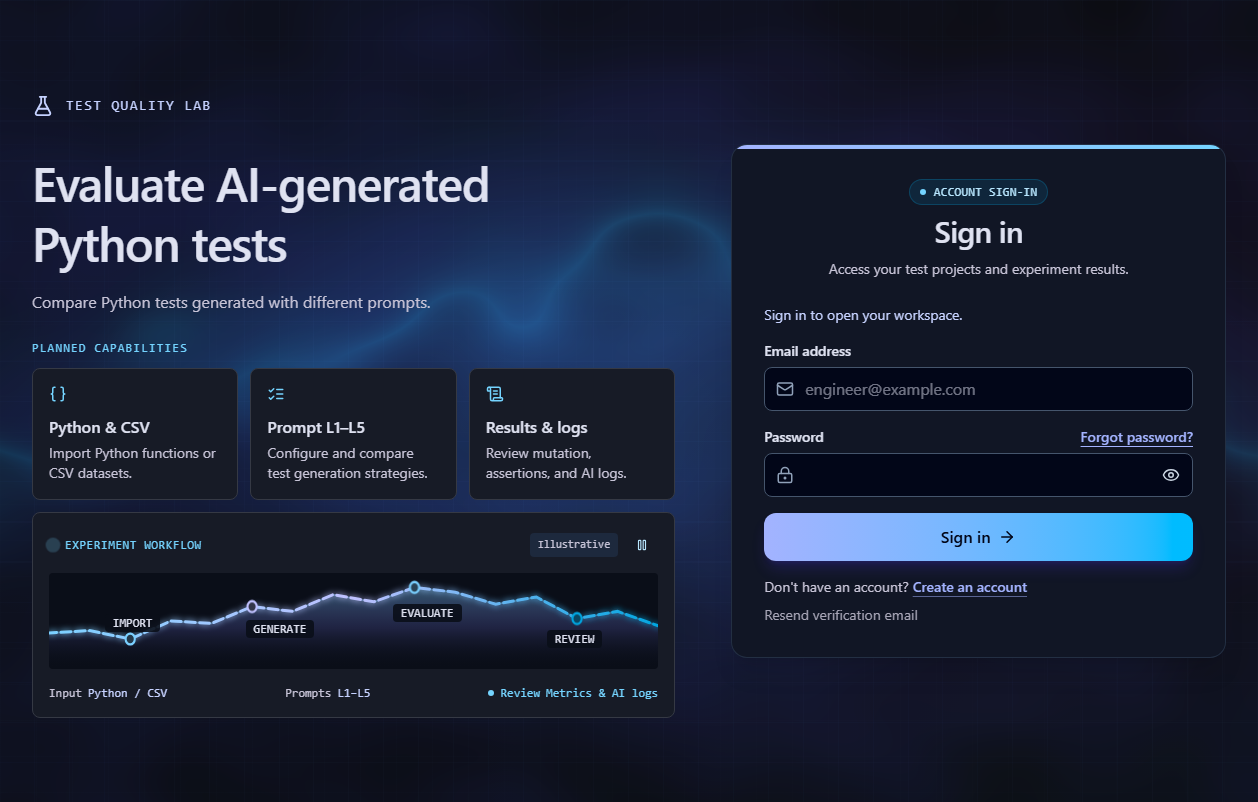
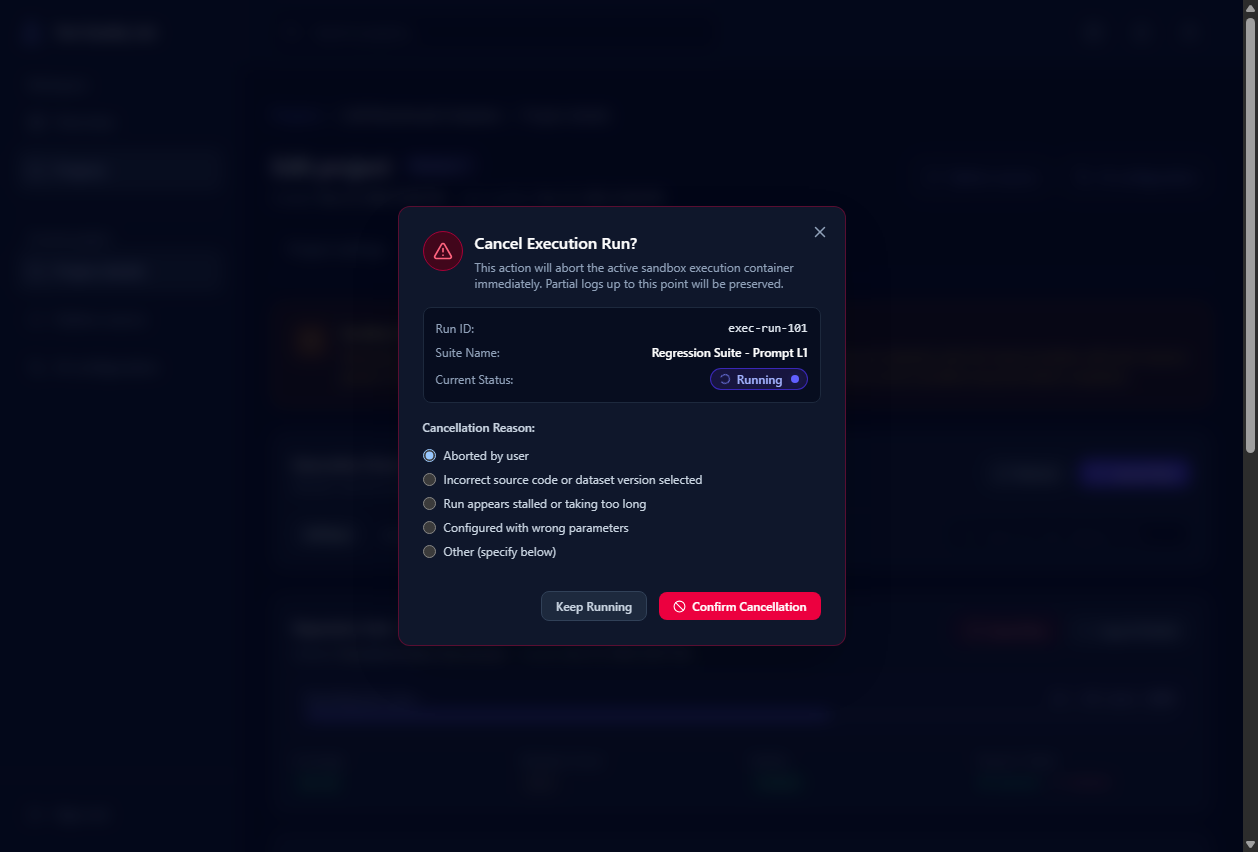
docs(screenshots): capture authentic UI views for executions overview, cancellation modal, and run details (#50)

diff --git a/scripts/capture-executions-screenshots.js b/scripts/capture-executions-screenshots.js
@@ -18,55 +18,18 @@ async function run() {
   console.log('Starting mock backend on port 8000...');
   const mockProcess = spawn('node', ['mock-backend.js'], {
     cwd: path.resolve(__dirname, '../frontend'),
-    stdio: 'pipe',
     shell: true,
   });
 
-  // Wait for mock backend to be ready
-  let mockReady = false;
-  for (let i = 0; i < 20; i++) {
-    try {
-      const resp = await fetch('http://127.0.0.1:8000/health');
-      if (resp.ok) {
-        mockReady = true;
-        break;
-      }
-    } catch { }
-    await delay(300);
-  }
-
-  if (!mockReady) {
-    console.error('Mock backend failed to start');
-    mockProcess.kill();
-    process.exit(1);
-  }
-  console.log('Mock backend is ready.');
+  await delay(1000);
 
   console.log('Starting Vite server on port 5173...');
   const viteProcess = spawn('npm.cmd', ['run', 'dev', '--', '--port', '5173', '--host', '127.0.0.1'], {
     cwd: path.resolve(__dirname, '../frontend'),
-    stdio: 'pipe',
     shell: true,
   });
 
-  let viteReady = false;
-  for (let i = 0; i < 30; i++) {
-    try {
-      const resp = await fetch('http://127.0.0.1:5173');
-      if (resp.ok) {
-        viteReady = true;
-        break;
-      }
-    } catch { }
-    await delay(500);
-  }
-
-  if (!viteReady) {
-    console.error('Vite failed to start');
-    cleanup([mockProcess, viteProcess]);
-    process.exit(1);
-  }
-  console.log('Vite is ready.');
+  await delay(2500);
 
   const tmpProfile = path.resolve(__dirname, '../.tmp_chrome_profile_exec');
   const chromeProcess = spawn(
@@ -78,8 +41,8 @@ async function run() {
       '--no-default-browser-check',
       '--remote-debugging-port=9222',
       `--user-data-dir=${tmpProfile}`,
-      '--window-size=1280,900',
-      'http://127.0.0.1:5173',
+      '--window-size=1280,950',
+      'http://127.0.0.1:5173/login',
     ],
     { stdio: 'ignore' }
   );
@@ -131,7 +94,8 @@ async function run() {
   }
 
   async function evaluate(code) {
-    return send('Runtime.evaluate', { expression: code, awaitPromise: true, returnByValue: true });
+    const res = await send('Runtime.evaluate', { expression: code, awaitPromise: true, returnByValue: true });
+    return res.result ? res.result.value : res;
   }
 
   async function takeScreenshot(fileName) {
@@ -143,65 +107,125 @@ async function run() {
   }
 
   try {
-    // 1. Sign in
-    console.log('Navigating to login...');
-    await send('Page.navigate', { url: 'http://127.0.0.1:5173/login' });
     await delay(2000);
 
-    console.log('Signing in...');
-    await evaluate(`
-      const emailInput = document.querySelector('#email');
-      const passwordInput = document.querySelector('#password');
-      if (emailInput && passwordInput) {
-        emailInput.value = 'user@testlab.dev';
-        emailInput.dispatchEvent(new Event('input', { bubbles: true }));
-        passwordInput.value = 'Password123456!';
-        passwordInput.dispatchEvent(new Event('input', { bubbles: true }));
-        const form = document.querySelector('form');
-        form.dispatchEvent(new Event('submit', { bubbles: true, cancelable: true }));
-      }
-    `);
+    // 1. Fill login form using prototype setters only
+    console.log('Filling login form and signing in...');
+    await evaluate(`(() => {
+      const setVal = (el, val) => {
+        if (!el) return;
+        const setter = Object.getOwnPropertyDescriptor(HTMLInputElement.prototype, 'value').set;
+        setter.call(el, val);
+        el.dispatchEvent(new Event('input', { bubbles: true }));
+        el.dispatchEvent(new Event('change', { bubbles: true }));
+      };
+      setVal(document.querySelector('input[name="email"]'), 'tester@example.com');
+      setVal(document.querySelector('input[name="password"]'), 'Password123456!');
+    })()`);
+
+    const formCheck = await evaluate(`(() => {
+      const form = document.querySelector('form');
+      const data = new FormData(form);
+      return { email: data.get('email'), pwd: Boolean(data.get('password')) };
+    })()`);
+    console.log('FormData before submit:', formCheck);
+
+    // Click submit
+    console.log('Clicking sign in submit button...');
+    await evaluate(`(() => {
+      const btn = document.querySelector('button[type="submit"]') || [...document.querySelectorAll('button')].find(b => b.textContent.includes('Sign in'));
+      if (btn) btn.click();
+    })()`);
+
+    await delay(3000);
+
+    const afterLoginUrl = await evaluate('window.location.href');
+    console.log('URL after login:', afterLoginUrl);
+
+    // 2. Navigate to Projects
+    console.log('Navigating to Projects...');
+    await evaluate(`(() => {
+      const link = document.querySelector('a[href="/projects"]');
+      if (link) link.click();
+    })()`);
     await delay(2000);
 
-    // 2. Navigate to Executions tab
-    console.log('Navigating to Executions tab...');
-    await send('Page.navigate', { url: 'http://127.0.0.1:5173/projects/demo-project?tab=executions' });
+    // 3. Click demo-project
+    console.log('Clicking demo-project...');
+    await evaluate(`(() => {
+      const link = document.querySelector('a[href="/projects/demo-project"]');
+      if (link) link.click();
+    })()`);
     await delay(2500);
 
-    // 3. Capture 01-execution-status-overview.png
+    // 4. Click "Executions (UC-08)" tab
+    console.log('Clicking Executions (UC-08) tab...');
+    const tabClick = await evaluate(`(() => {
+      const tabBtn = [...document.querySelectorAll('button')].find(b => b.textContent.includes('Executions'));
+      if (tabBtn) {
+        tabBtn.click();
+        return 'clicked executions tab';
+      }
+      return 'executions tab not found';
+    })()`);
+    console.log('Tab click result:', tabClick);
+    await delay(2000);
+
+    const execStatus = await evaluate(`(() => {
+      return {
+        url: window.location.href,
+        hasSecurityNotice: Boolean(document.querySelector('#sandbox-notice-title')),
+        cardsCount: document.querySelectorAll('[data-testid^="execution-card-"]').length,
+        bodySnippet: document.body.innerText.slice(0, 300),
+      };
+    })()`);
+    console.log('Executions tab status:', execStatus);
+
+    // 5. Capture 01-execution-status-overview.png
     console.log('Capturing 01-execution-status-overview.png...');
     await takeScreenshot('01-execution-status-overview.png');
 
-    // 4. Open Cancel Execution Modal on running run
+    // 6. Click Cancel on exec-run-101
     console.log('Opening Cancel Execution Modal...');
-    await evaluate(`
+    const cancelModalResult = await evaluate(`(() => {
       const cancelBtn = document.querySelector('[data-testid="cancel-run-btn-exec-run-101"]');
-      if (cancelBtn) cancelBtn.click();
-    `);
-    await delay(1000);
+      if (cancelBtn) {
+        cancelBtn.click();
+        return 'clicked cancel button';
+      }
+      return 'cancel button not found';
+    })()`);
+    console.log('Cancel modal click:', cancelModalResult);
+    await delay(1200);
 
     console.log('Capturing 02-cancel-execution-modal.png...');
     await takeScreenshot('02-cancel-execution-modal.png');
 
     // Close cancel modal
-    await evaluate(`
+    console.log('Closing Cancel Modal...');
+    await evaluate(`(() => {
       const closeBtn = document.querySelector('[aria-label="Close dialog"]');
       if (closeBtn) closeBtn.click();
-    `);
-    await delay(800);
-
-    // 5. Open Inspection / Detail Modal on running run
-    console.log('Opening Inspection / Logs Modal...');
-    await evaluate(`
-      const inspectBtn = document.querySelector('[data-testid="inspect-run-btn-exec-run-101"]');
-      if (inspectBtn) inspectBtn.click();
-    `);
+    })()`);
     await delay(1000);
+
+    // 7. Click Inspect on exec-run-101
+    console.log('Opening Inspection / Logs Modal...');
+    const inspectModalResult = await evaluate(`(() => {
+      const inspectBtn = document.querySelector('[data-testid="inspect-run-btn-exec-run-101"]');
+      if (inspectBtn) {
+        inspectBtn.click();
+        return 'clicked inspect button';
+      }
+      return 'inspect button not found';
+    })()`);
+    console.log('Inspect modal click:', inspectModalResult);
+    await delay(1200);
 
     console.log('Capturing 03-execution-detail-and-logs.png...');
     await takeScreenshot('03-execution-detail-and-logs.png');
 
-    console.log('Screenshots completed successfully!');
+    console.log('All screenshots completed successfully!');
   } catch (err) {
     console.error('Error during capture:', err);
   } finally {
